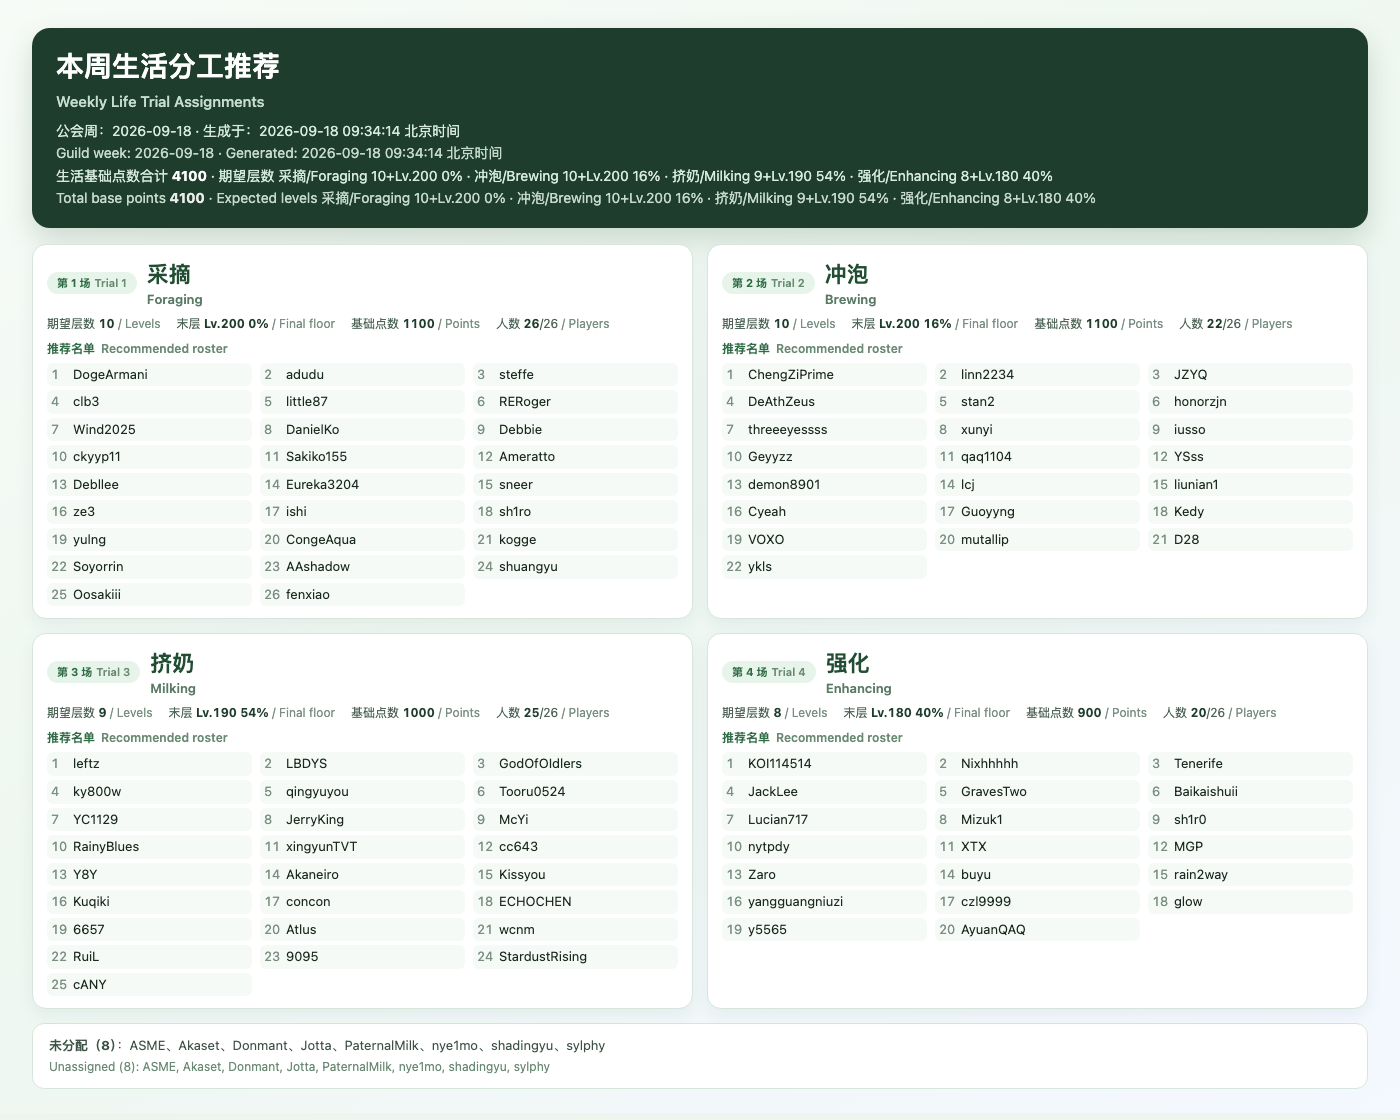
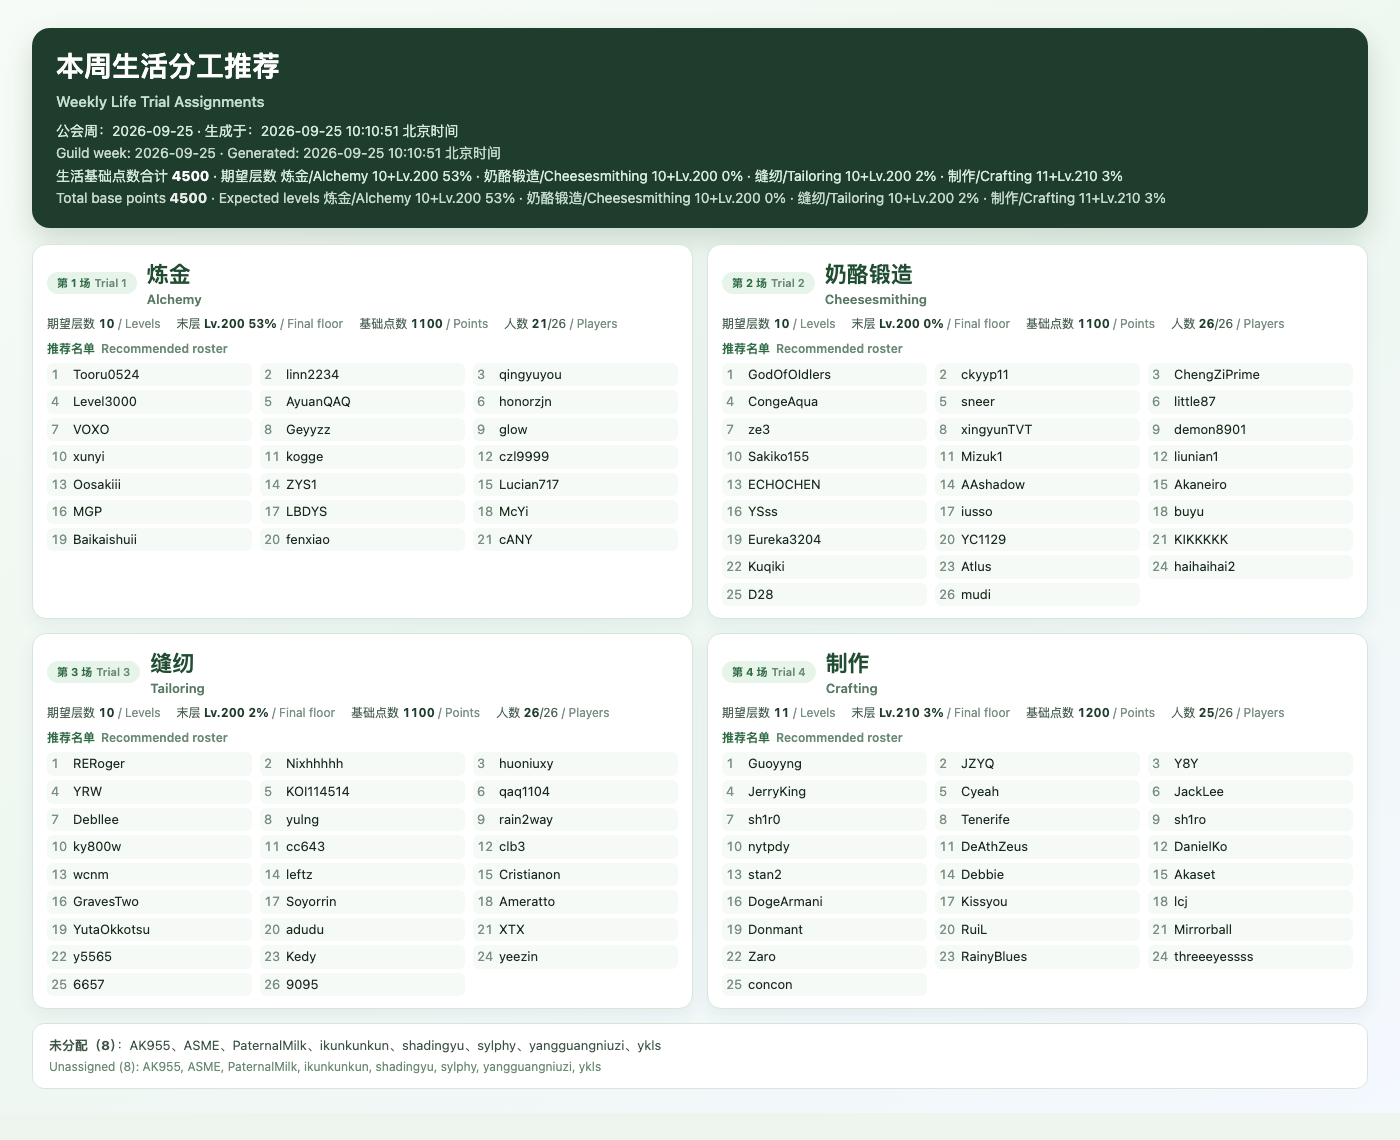
chore: refresh life assignment report (2026-09-25T00:00:00.000Z, 4500 pts)

Changed region(s): [[0.0307, 0.0312, 0.9829, 0.9688]]

diff --git a/reports/combat-assignment/index.html b/reports/combat-assignment/index.html
@@ -132,7 +132,7 @@
     <div class="header-text">
       <h1><span class="i18n" data-zh="本周分工" data-en="Weekly Assignments">本周分工</span></h1>
       <div class="meta">
-        <span class="i18n" data-zh="战斗方案：" data-en="Combat plan: ">战斗方案：</span>2026-09-25 08:51:34 北京时间
+        <span class="i18n" data-zh="战斗方案：" data-en="Combat plan: ">战斗方案：</span>2026-09-25 10:10:51 北京时间
         <span class="i18n" data-zh=" · 点选下方条目浏览生活/战斗图片" data-en=" · Pick a tab to browse life/combat images"> · 点选下方条目浏览生活/战斗图片</span>
       </div>
     </div>
@@ -141,26 +141,13 @@
       <button type="button" class="lang-btn" data-lang="en">English</button>
     </div>
   </header>
-  <pre class="summary" id="summaryBlock">TMD 可用人员重排组合搜索（不按报名，开发实验不可转正）
-可用 112 人；不可用 5 人；最优分区：phys-hedgehog-magic-badger-stheal8
-规则：枪/剑/弓/弩/锤去刺猬；火/水去獾；刺猬留定额自当奶，溢出自去獾当奶（之后转 AOE 输出）；两边各留至少2个必要覆盖（烟爆/法力喷泉/冰霜爆裂/粉尘/疫病/破甲/碎裂/致残/血刃）；自然奶按武器强化/魔法改输出 x（hedgehog=0，badger=11），输出技能元素增幅/粉尘/菌幕/缠绕，剩余自然仍群疗；非光环默认复活、前x输出改疯狂（hedgehog=0，badger=36）；攻击≥110；双 Boss 人员互斥；无复制人。
-【试炼刺猬】56人；3次 8–9 层；DPS≈2287；末层平均49.7%；死亡 64–107
-技能包：st-ranged-pestilent-precision
-职业：弓2 弩15 火2 水2 自8 盾1 枪16 剑2 锤8
-职责：坦克1 奶8 减10 输出37
-名单：Tenerife(弓)、yeezin(弓)、9095(弩)、AyuanQAQ(弩)、cANY(弩)、cc643(弩)、DanielKo(弩)、Debllee(弩)、fenxiao(弩)、GravesTwo(弩)、iusso(弩)、ky800w(弩)、leftz(弩)、Lucian717(弩)、MEYS(弩)、RERoger(弩)、sylphy(弩)、ChengZiPrime(火)、Kedy(火)、honorzjn(水)、YRW(水)、Zaro(自)、yulng(自)、CongeAqua(自)、wcnm(自)、y5565(自)、Acceleratorlin(自)、glow(自)、Debbie(自)、sh1r0(盾)、6657(枪)、AAshadow(枪)、Baikaishuii(枪)、Cyeah(枪)、czl9999(枪)、demon8901(枪)、haihaihai2(枪)、Kuqiki(枪)、little87(枪)、Luckymoo(枪)、McYi(枪)、mudi(枪)、Nixhhhhh(枪)、nye1mo(枪)、qingyuyou(枪)、shadingyu(枪)、Chen1ey(剑)、Sakiko155(剑)、adudu(锤)、Akaneiro(锤)、Ameratto(锤)、Atlus(锤)、D28(锤)、ECHOCHEN(锤)、Tooru0524(锤)、XHSe(锤)
-【试炼獾】56人（每层2只）；3次 13–14 层；DPS≈7357；末层平均36.9%；死亡 13–63；前36输出疯狂；11名自然奶改输出
-技能包：aoe-frenzy-rain-smoke2
-职业：弓2 弩6 火11 水10 自16 盾1 枪5 剑3 锤2
-职责：坦克1 奶5 减20 输出30
-名单：Cristianon(弓)、JackLee(弓)、DogeArmani(弩)、KIKKKKK(弩)、XTX(弩)、YC1129(弩)、ykls(弩)、YSss(弩)、JerryKing(火)、LBDYS(火)、mutallip(火)、Wind2025(火)、Mizuk1(火)、RuiL(火)、DeAthZeus(火)、stan2(火)、StardustRising(火)、Akaset(火)、Donmant(火)、buyu(水)、dark6666(水)、ikunkunkun(水)、ishi(水)、lcj(水)、liunian1(水)、PaternalMilk(水)、RainyBlues(水)、Soyorrin(水)、ZYS1(水)、121574(自)、AK955(自)、ckyyp11(自)、Geyyzz(自)、Kissyou(自)、kogge(自)、MGP(自)、Mirrorball(自)、MRBIRTHDAY(自)、nytpdy(自)、Oosakiii(自)、qaq1104(自)、rain2way(自)、shuangyu(自)、threeeyessss(自)、xunyi(自)、ze3(盾)、GodOfOIdlers(枪)、JZYQ(枪)、VOXO(枪)、xingyunTVT(枪)、yangguangniuzi(枪)、Jotta(剑)、steffe(剑)、yida787(剑)、ASME(锤)、sneer(锤)
-全库不可用：Y8Y/枪(攻击等级不足（105&lt;110）)、Eureka3204/自(攻击等级不足（93&lt;110）)、Guoyyng/水(攻击等级不足（79&lt;110）)、Level3000/弩(攻击等级不足（84&lt;110）)、sh1ro/水(手动排除（不参加）)</pre>
+  
   <nav class="tabs" aria-label="Weekly assignment images">
       <button type="button" class="tab active" data-index="0" data-src-zh="../life-assignment/latest.png" data-src-en="../life-assignment/latest.png" data-label-zh="生活分工" data-label-en="Life Trials"><span class="i18n" data-zh="生活分工" data-en="Life Trials">生活分工</span></button>
-      <button type="button" class="tab" data-index="1" data-src-zh="1-hedgehog-summary.png" data-src-en="1-hedgehog-summary.en.png" data-label-zh="刺猬 · 阵容与技能" data-label-en="Trial Hedgehog · Roster &amp; Skills"><span class="i18n" data-zh="刺猬 · 阵容与技能" data-en="Trial Hedgehog · Roster &amp; Skills">刺猬 · 阵容与技能</span></button>
-      <button type="button" class="tab" data-index="2" data-src-zh="1-hedgehog-members.png" data-src-en="1-hedgehog-members.en.png" data-label-zh="刺猬 · 成员明细" data-label-en="Trial Hedgehog · 56 Member Breakdown"><span class="i18n" data-zh="刺猬 · 成员明细" data-en="Trial Hedgehog · 56 Member Breakdown">刺猬 · 成员明细</span></button>
-      <button type="button" class="tab" data-index="3" data-src-zh="2-badger-summary.png" data-src-en="2-badger-summary.en.png" data-label-zh="獾 · 阵容与技能" data-label-en="Trial Badger · Roster &amp; Skills"><span class="i18n" data-zh="獾 · 阵容与技能" data-en="Trial Badger · Roster &amp; Skills">獾 · 阵容与技能</span></button>
-      <button type="button" class="tab" data-index="4" data-src-zh="2-badger-members.png" data-src-en="2-badger-members.en.png" data-label-zh="獾 · 成员明细" data-label-en="Trial Badger · 56 Member Breakdown"><span class="i18n" data-zh="獾 · 成员明细" data-en="Trial Badger · 56 Member Breakdown">獾 · 成员明细</span></button>
+      <button type="button" class="tab" data-index="1" data-src-zh="1-hedgehog-summary.png" data-src-en="1-hedgehog-summary.en.png" data-label-zh="刺猬 · 阵容与技能" data-label-en="Hedgehog · Roster &amp; Skills"><span class="i18n" data-zh="刺猬 · 阵容与技能" data-en="Hedgehog · Roster &amp; Skills">刺猬 · 阵容与技能</span></button>
+      <button type="button" class="tab" data-index="2" data-src-zh="1-hedgehog-members.png" data-src-en="1-hedgehog-members.en.png" data-label-zh="刺猬 · 成员明细" data-label-en="Hedgehog · Members"><span class="i18n" data-zh="刺猬 · 成员明细" data-en="Hedgehog · Members">刺猬 · 成员明细</span></button>
+      <button type="button" class="tab" data-index="3" data-src-zh="2-badger-summary.png" data-src-en="2-badger-summary.en.png" data-label-zh="獾 · 阵容与技能" data-label-en="Badger · Roster &amp; Skills"><span class="i18n" data-zh="獾 · 阵容与技能" data-en="Badger · Roster &amp; Skills">獾 · 阵容与技能</span></button>
+      <button type="button" class="tab" data-index="4" data-src-zh="2-badger-members.png" data-src-en="2-badger-members.en.png" data-label-zh="獾 · 成员明细" data-label-en="Badger · Members"><span class="i18n" data-zh="獾 · 成员明细" data-en="Badger · Members">獾 · 成员明细</span></button>
   </nav>
   <main>
     <p class="caption" id="caption"></p>

diff --git a/reports/life-assignment/README.md b/reports/life-assignment/README.md
@@ -1,8 +1,8 @@
 # 本周生活分工
 
-- 公会周：`2026-09-18T00:00:00.000Z`
-- 生成时间：`2026-09-18T01:34:14.109Z`
-- 基础点数合计：`4100`
+- 公会周：`2026-09-25T00:00:00.000Z`
+- 生成时间：`2026-09-25T02:10:51.050Z`
+- 基础点数合计：`4500`
 
 图片：https://raw.githubusercontent.com/xiahuaaaa/mwi-guild-trial-helper/main/reports/life-assignment/latest.png
 JSON：https://raw.githubusercontent.com/xiahuaaaa/mwi-guild-trial-helper/main/reports/life-assignment/latest.json
